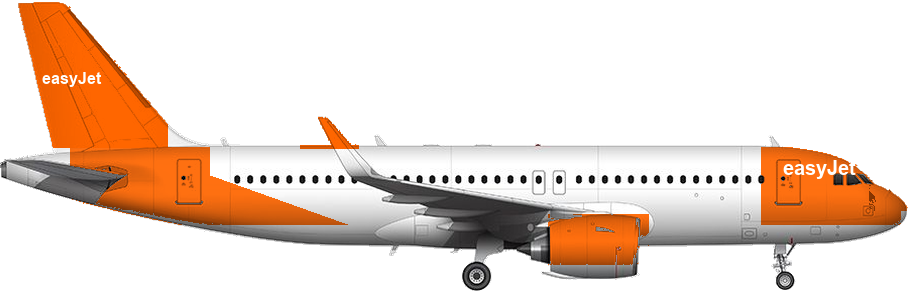
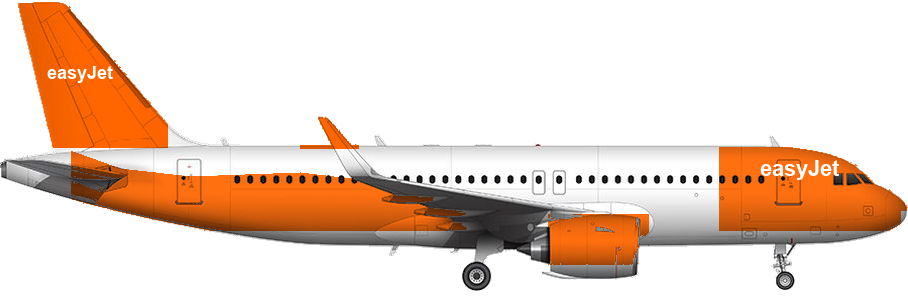
Repaint easyJet to the photo’s orange lightning, not a solid rear.

diff --git a/flight-simulator-2026/index.html b/flight-simulator-2026/index.html
@@ -153,7 +153,7 @@
   <script src="js/input.js?v=hump38"></script>
   <script src="js/hud.js?v=hump38"></script>
   <script src="js/loading.js?v=hump38"></script>
-  <script src="js/game.js?v=a320liv8"></script>
+  <script src="js/game.js?v=a320liv9"></script>
   <script src="js/mobile.js?v=hump38"></script>
   <script src="js/menu.js?v=free1"></script>
   <script src="js/main.js"></script>

diff --git a/flight-simulator-2026/js/game.js b/flight-simulator-2026/js/game.js
@@ -70,7 +70,7 @@ class Game {
       const load = (file, key) => {
         const img = new Image();
         img.onload = () => { pack[key] = img; };
-        img.src = `${base}${file}?v=liv8`;
+        img.src = `${base}${file}?v=liv9`;
       };
       load(`${prefix}-gearup.png`, "up");
       load(`${prefix}-geardown.png`, "down");
